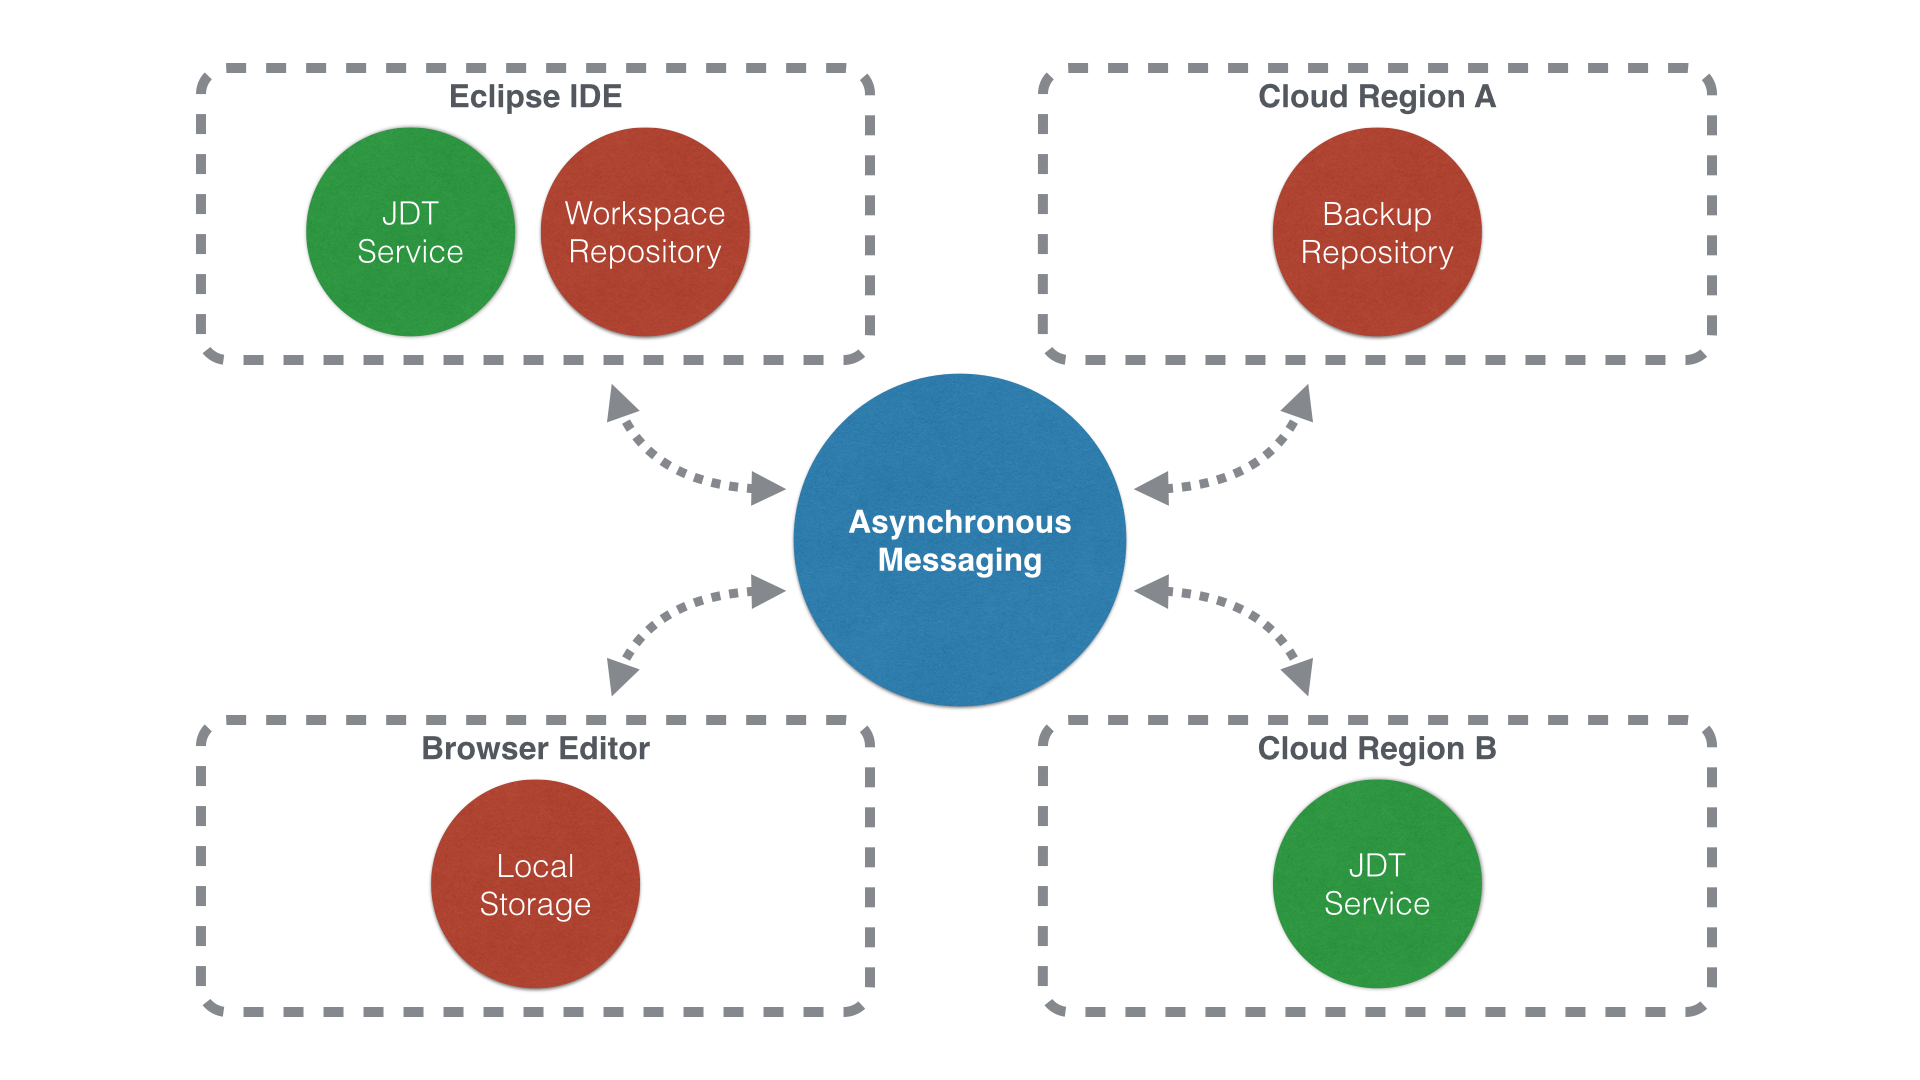
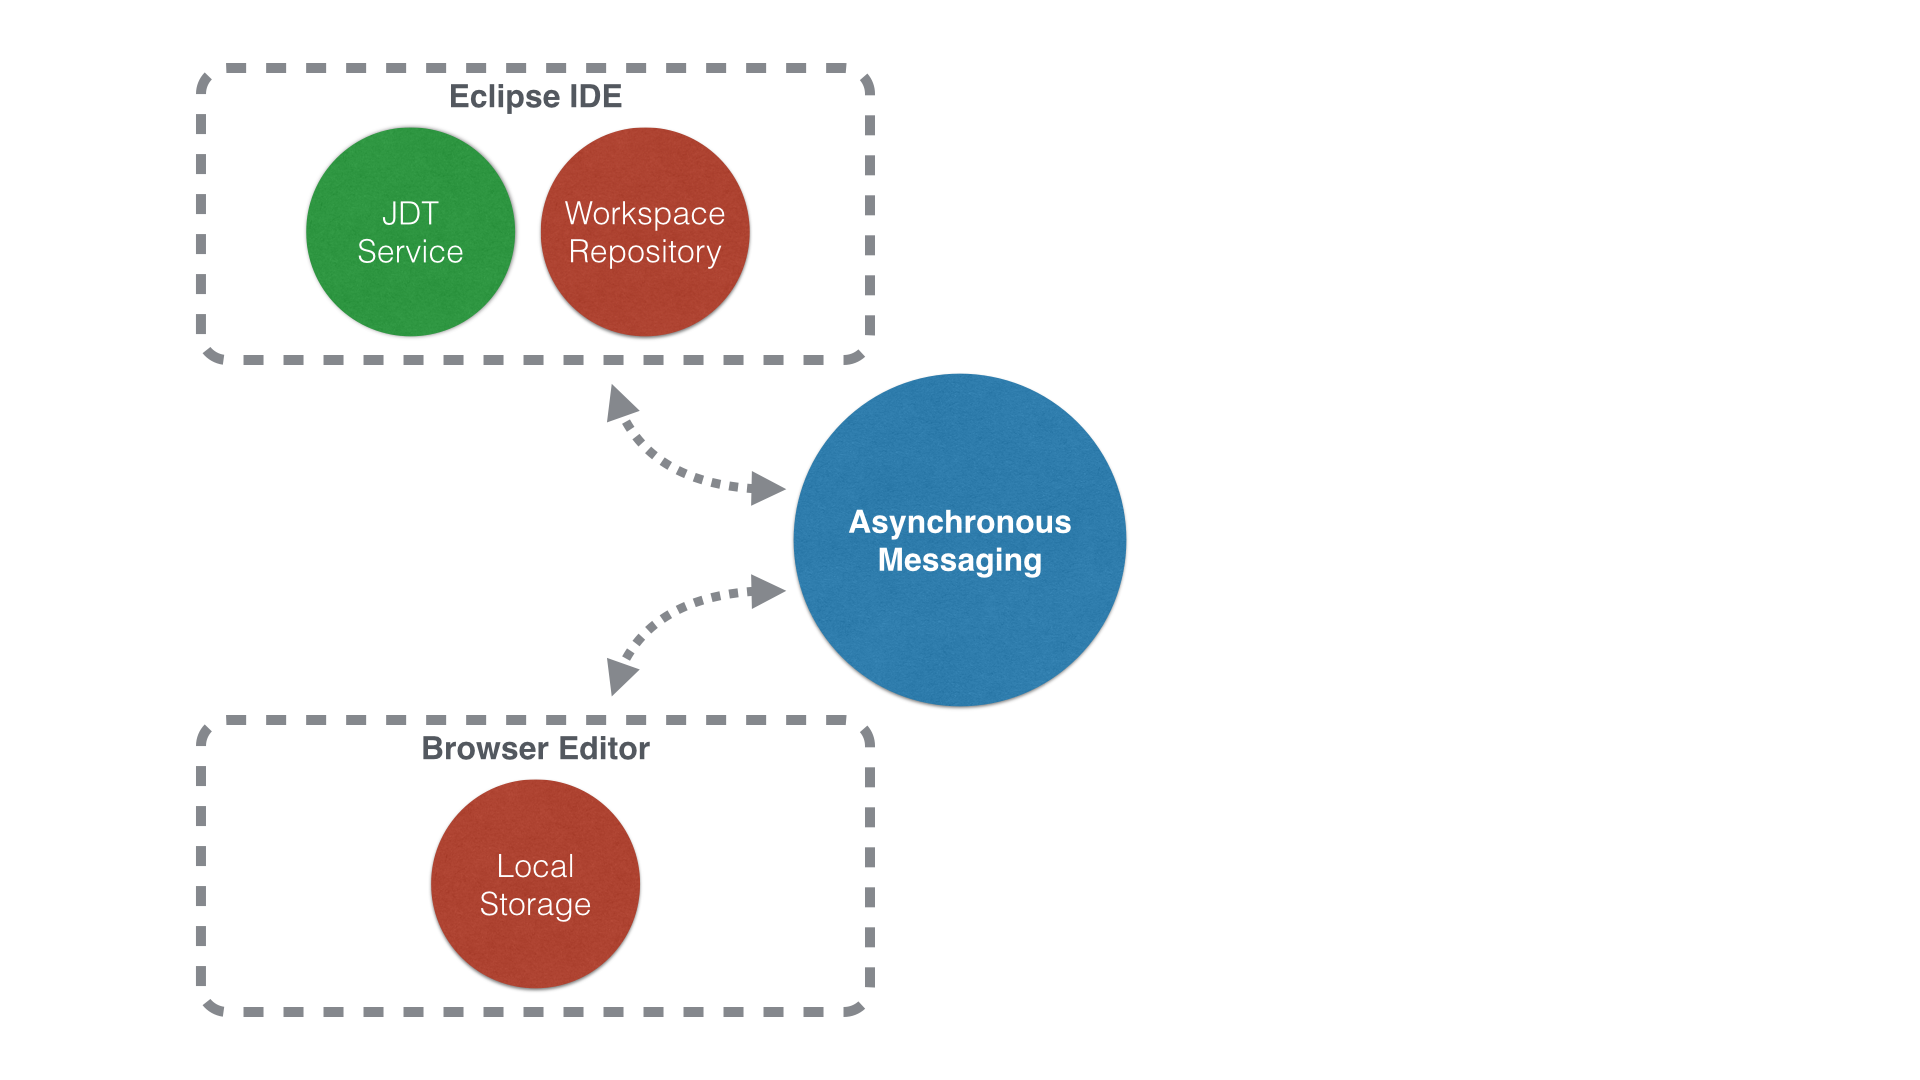
Added more arch diagrams

diff --git a/flux/index.html b/flux/index.html
@@ -22,6 +22,7 @@
 
 		<!-- If the query includes 'print-pdf', use the PDF print sheet -->
 		<script>
+			/* global document window */
 			document.write( '<link rel="stylesheet" href="../reveal/css/print/' + ( window.location.search.match( /print-pdf/gi ) ? 'pdf' : 'paper' ) + '.css" type="text/css" media="print">' );
 		</script>
 
@@ -52,7 +53,7 @@
 					<ul>
 						<li>Truly cross platform (tablets, servers, desktops ...)</li>
 						<li>Extreme scalability (up and down)</li>
-						<li>Low cost <a href="https://orion.eclipse.org">tool</a> <a href="https://hudson.eclipse.org/orion/">configuration</a></li>
+						<li>Low cost <a href="https://orion.eclipse.org/help/about.html">tool</a> <a href="https://hudson.eclipse.org/orion/">configuration</a></li>
 						<li>Toolchain control</li>
 					</ul>
 				</section>
@@ -89,27 +90,18 @@
 				</section>
 
 				<section>
-					<h1>Why Flux?</h1>
-					<ul>
-						<li>Strong pressure in industry towards cloud-based developer tools, particularly when deploying to cloud-based runtimes</li>
-						<li>Current browser-based tools showing promise but have significant gaps in functionality especially in area of compiled languages</li>
-						<li>Currently there is no story for integrating legacy tools or providing incremental migration from desktop tools to the cloud</li>
-					</ul>
-				</section>
-
-				<section>
-					<h1>Project Goals</h1>
-					<ul>
-						<li>Create cloud based tooling services that could be consumed by development environments across both desktop and web based environments</li>
-						<li>Design and implement a new architecture and infrastructure for integrating development tools across desktop, browser, and servers</li>
-						<li>Build a strong ecosystem around this tooling service model including both open and vendor-specific tools</li>
-						<li>Initial code contribution from Pivotal including tooling service architecture, prototype browser-based Java tools and Eclipse integration</li>
-					</ul>
-				</section>
-
-				<section>
-					<h1>Architecture</h1>
+					<h2>Current Architecture</h2>
 					<img src="images/flux-architecture.png" alt="Flux Architecture Diagram">
+				</section>
+
+				<section>
+					<h2>Future Architecture</h2>
+					<img src="images/flux-architecture2.png" alt="Flux Architecture Diagram">
+				</section>
+
+				<section>
+					<h2>Cloud Architecture</h2>
+					<img src="images/flux-architecture3.png" alt="Flux Architecture Diagram">
 				</section>
 
 				<section>
@@ -119,6 +111,16 @@
 						<li>Cloud-based Java language tooling</li>
 						<li>Cloud-based JavaScript language tooling</li>
 						<li>Application deployment and execution services, possible debug integration</li>
+						<li>&lt;enter your work area here&gt;</li>
+					</ul>
+				</section>
+				
+				<section>
+					<h2>References</h2>
+					<ul>
+						<li><a href="http://wiki.eclipse.org/Flux">http://wiki.eclipse.org/Flux</a></li>
+						<li><a href="http://github.com/eclipse/flux">http://github.com/eclipse/flux</a></li>
+						<li><a href="http://github.com/jarthorn/EclipseConFrance2014">http://github.com/jarthorn/EclipseConFrance2014</a></li>
 					</ul>
 				</section>
 
@@ -136,7 +138,7 @@
 		<script src="../reveal/js/reveal.min.js"></script>
 
 		<script>
-			/*global Reveal hljs */
+			/*global Reveal hljs document */
 			// Full list of configuration options available here:
 			// https://github.com/hakimel/reveal.js#configuration
 			Reveal.initialize({
